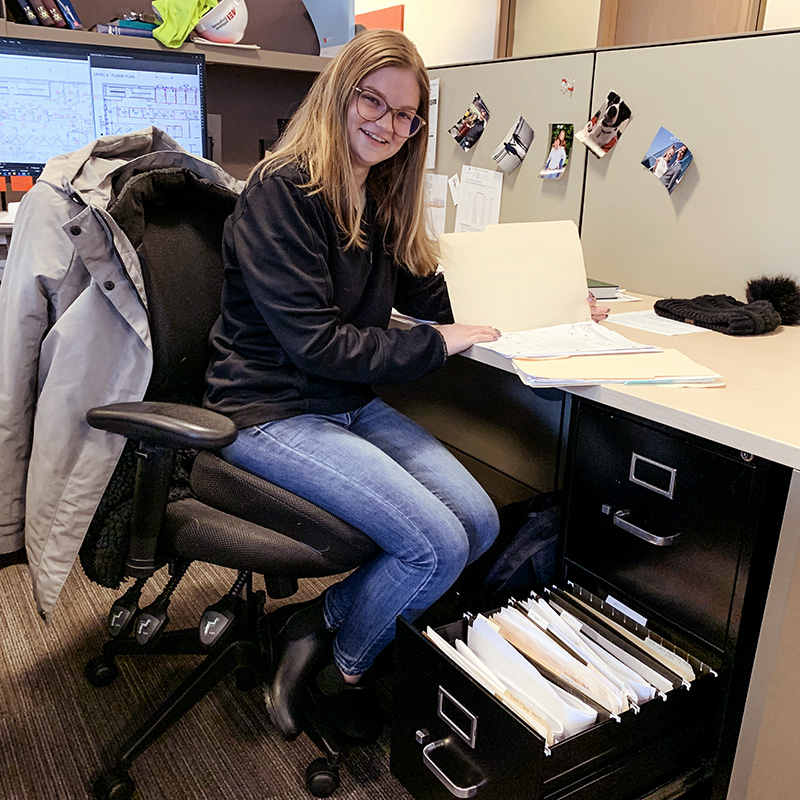
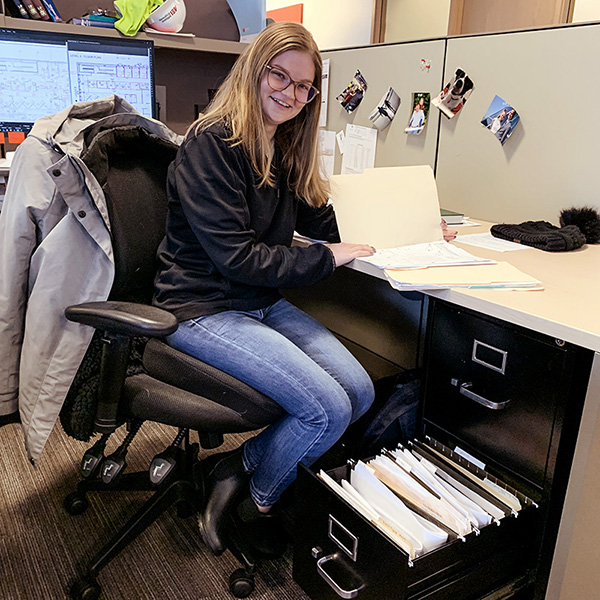
resized lynndy's photos; reinserted row 1 photos

diff --git a/index.html b/index.html
@@ -109,7 +109,7 @@
 
       <div class="grid_4">
         <div class="box">
-          <a href="images/big7.jpg" class="gall_item"><img src="images/page3_img7.jpg" alt=""><span></span></a>
+          <a href="images/01_lynndy-big.JPG" class="gall_item"><img src="images/01_lynndy-sm.jpg" alt=""><span></span></a>
           <div class="box_bot">
             <div class="box_bot_title">Lynndy</div>
             <p>I've got a folder for that!</p>
@@ -119,20 +119,20 @@
 
       <div class="grid_4">
         <div class="box">
-          <a href="images/big8.jpg" class="gall_item"><img src="images/page3_img8.jpg" alt=""><span></span></a>
+          <a href="images/02_sean-big.jpg" class="gall_item"><img src="images/02_sean-sm.jpg" alt=""><span></span></a>
           <div class="box_bot">
-            <div class="box_bot_title">Photo title</div>
-            <p>Dorem ipsum dolor sit amet, consectetur adipiscing elit. In mollis erat mattis neque facilisis, sit amet ultricies erat rutrum. Cras facilisis, nulla vel viverra auctor, leo magna sodales felis, quis malesuada nibh odio ut velit</p>
+            <div class="box_bot_title">Sean</div>
+            <p>&#8220;How do I uploade this to Facebook??&#8221;</p>
           </div>
         </div>
       </div>
 
       <div class="grid_4">
         <div class="box">
-          <a href="images/big9.jpg" class="gall_item"><img src="images/page3_img9.jpg" alt=""><span></span></a>
+          <a href="images/03_shane-big.jpg" class="gall_item"><img src="images/03_shane-sm.jpg" alt=""><span></span></a>
           <div class="box_bot">
-            <div class="box_bot_title">Photo title</div>
-            <p>Dorem ipsum dolor sit amet, consectetur adipiscing elit. In mollis erat mattis neque facilisis, sit amet ultricies erat rutrum. Cras facilisis, nulla vel viverra auctor, leo magna sodales felis, quis malesuada nibh odio ut velit</p>
+            <div class="box_bot_title">Shane</div>
+            <p>Old school: Dad in vintage jersey, kids without screens!</p>
           </div>
         </div>
       </div>
